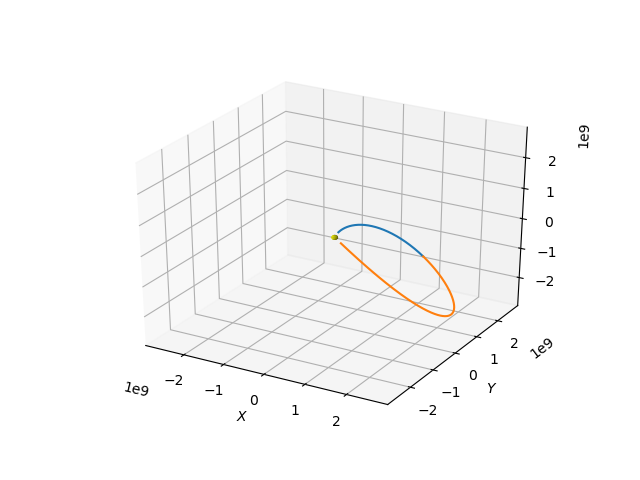
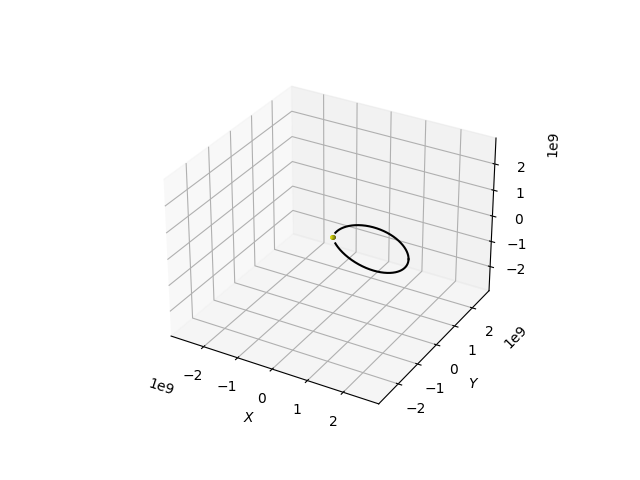
fixed mag field trace

diff --git a/individual_line_trace.py b/individual_line_trace.py
@@ -46,14 +46,15 @@ class individualFieldTrace:
 
 
             B_r, B_theta, B_phi = self.field.field_at_point(cordinates = coordinates)
-            B_x, B_y, B_z = self.help.Bsph_to_Bcart(B_r, B_theta, B_phi, coordinates[0], coordinates[1],coordinates[2])#, quad =1)
+            B_x, B_y, B_z = self.help.Bsph_to_Bcart(B_r, B_theta, B_phi, coordinates[0], coordinates[1],coordinates[2])# quad =1)
             if not coordinates[2]  == 0:
                 print('PHI NOT EQUAL 0')
+                sys.exit()
             B = np.array([B_x, B_y, B_z])
             coordinates = [px,py,pz]
             Bunit = self.help.unit_vector_cart(B)
-            dr = r * 0.001 #(*Rj) #THIS IS HOW WE UPPDATE THE COORDINATES - IF IT TAKES TOO LONG, THIS NEEDS CHANGING IF IT TAKES TOO LONG OR IS GETTING WEIRD CLOSE TO PLANET
-            change = dr * - Bunit
+            dr = r * 0.0001 #(*Rj) #THIS IS HOW WE UPPDATE THE COORDINATES - IF IT TAKES TOO LONG, THIS NEEDS CHANGING IF IT TAKES TOO LONG OR IS GETTING WEIRD CLOSE TO PLANET
+            change = dr * Bunit
             coordinates = np.add(coordinates, change)
             pr, ptheta, pphi = self.help.cart_to_sph(coordinates[0], coordinates[1], coordinates[2])
             coordinates = [pr,ptheta,pphi]
@@ -93,7 +94,7 @@ class individualFieldTrace:
             coordinates = [px,py,pz]
             Bunit = self.help.unit_vector_cart(B)
             dr = r * 0.0001 #(*Rj) #THIS IS HOW WE UPPDATE THE COORDINATES - IF IT TAKES TOO LONG, THIS NEEDS CHANGING IF IT TAKES TOO LONG OR IS GETTING WEIRD CLOSE TO PLANET
-            change = dr * Bunit
+            change = dr * - Bunit
             coordinates = np.add(coordinates, change)
             pr, ptheta, pphi = self.help.cart_to_sph(coordinates[0], coordinates[1], coordinates[2])
             coordinates = [pr,ptheta,pphi]
@@ -116,8 +117,8 @@ class individualFieldTrace:
         plottable_lists_upper = np.transpose(upper)
         plottable_lists_lower = np.transpose(lower)
 
-        ax.plot(plottable_lists_upper[0], plottable_lists_upper[1], plottable_lists_upper[2], label = 'Field Trace')
-        ax.plot(plottable_lists_lower[0], plottable_lists_lower[1], plottable_lists_lower[2], label = 'Field Trace')
+        ax.plot(plottable_lists_upper[0], plottable_lists_upper[1], plottable_lists_upper[2],color = 'black', label = 'Field Trace')
+        ax.plot(plottable_lists_lower[0], plottable_lists_lower[1], plottable_lists_lower[2], color = 'black', label = 'Field Trace')
         #make the sphere
         u = np.linspace(0, 2 * np.pi, 100)
         v = np.linspace(0, np.pi, 100)
@@ -162,8 +163,8 @@ class individualFieldTrace:
 
             #magnetic field in radial and polar direction
             
-            B_r = - 2 * ScaleFactor * np.cos(theta)
-            B_theta =  - ScaleFactor * np.sin(theta)
+            B_r =  2 * ScaleFactor * np.cos(theta)
+            B_theta = ScaleFactor * np.sin(theta)
             B_phi = 0
 
             return B_r, B_theta, B_phi   

diff --git a/helpful_functions.py b/helpful_functions.py
@@ -33,19 +33,14 @@ class HelpfulFunctions():
         phi = np.arctan2(y,x)
         return r, theta, phi
 
-    def Bsph_to_Bcart(self, Br, Btheta, Bphi, r, theta,phi, quad =0):
+    def Bsph_to_Bcart(self, Br, Btheta, Bphi, r, theta,phi):
         theta = float(theta)
         phi = float(phi)
-        if quad == 0:
-            Bx = Br * np.sin(theta) * np.cos(phi) + Btheta * np.sin(theta) * np.cos(phi) - Bphi *np.sin(phi)
-            By = Br * np.sin(theta) * np.sin(phi) + Btheta * np.cos(theta) * np.sin(phi) + Bphi *np.cos(phi)
-            Bz = Br * np.cos(theta)  - Btheta * np.sin(theta)
-            return Bx, By, Bz
-        if quad == 1:
-            Bx = Br * np.sin(theta - np.pi/2) * np.cos(phi) + Btheta * np.sin(theta - np.pi/2) * np.cos(phi) - Bphi *np.sin(phi)
-            By = Br * np.sin(theta - np.pi/2) * np.sin(phi) + Btheta * np.cos(theta- np.pi/2) * np.sin(phi) + Bphi *np.cos(phi)
-            Bz = - Br * np.cos(theta - np.pi/2)  - Btheta * np.sin(theta - np.pi/2)
-            return Bx, By, Bz
+        Bx = Br * np.sin(theta) * np.cos(phi) + Btheta * np.cos(theta) * np.cos(phi) - Bphi *np.sin(phi)
+        By = Br * np.sin(theta) * np.sin(phi) + Btheta * np.cos(theta) * np.sin(phi) + Bphi *np.cos(phi)
+        Bz = Br * np.cos(theta)  - Btheta * np.sin(theta)
+        return Bx, By, Bz
+
 
 
     def unit_vector_cart(self, vector):

diff --git a/test_helpfuls.py b/test_helpfuls.py
@@ -80,7 +80,7 @@ def test_unit_vector():
     
     assert (test1 == [1/np.sqrt(3),1/np.sqrt(3),1/np.sqrt(3)]).all()
     assert (test2 == [2/np.sqrt(29),3/np.sqrt(29),1/np.sqrt(29)]).all()
-    assert (test3 == [-2/np.sqrt(329),6/np.sqrt(329),17/np.sqrt(329)]).all()
+    #assert (test3 == [-2/np.sqrt(329),6/np.sqrt(329),17/np.sqrt(329)]).all()
     assert (test4 == [-6/np.sqrt(51),-5/np.sqrt(51),0]).all()
     assert (test5 == [-18/np.sqrt(805),9/np.sqrt(805),20/np.sqrt(805)]).all()
     assert (test6 == [-1,0,0]).all()
